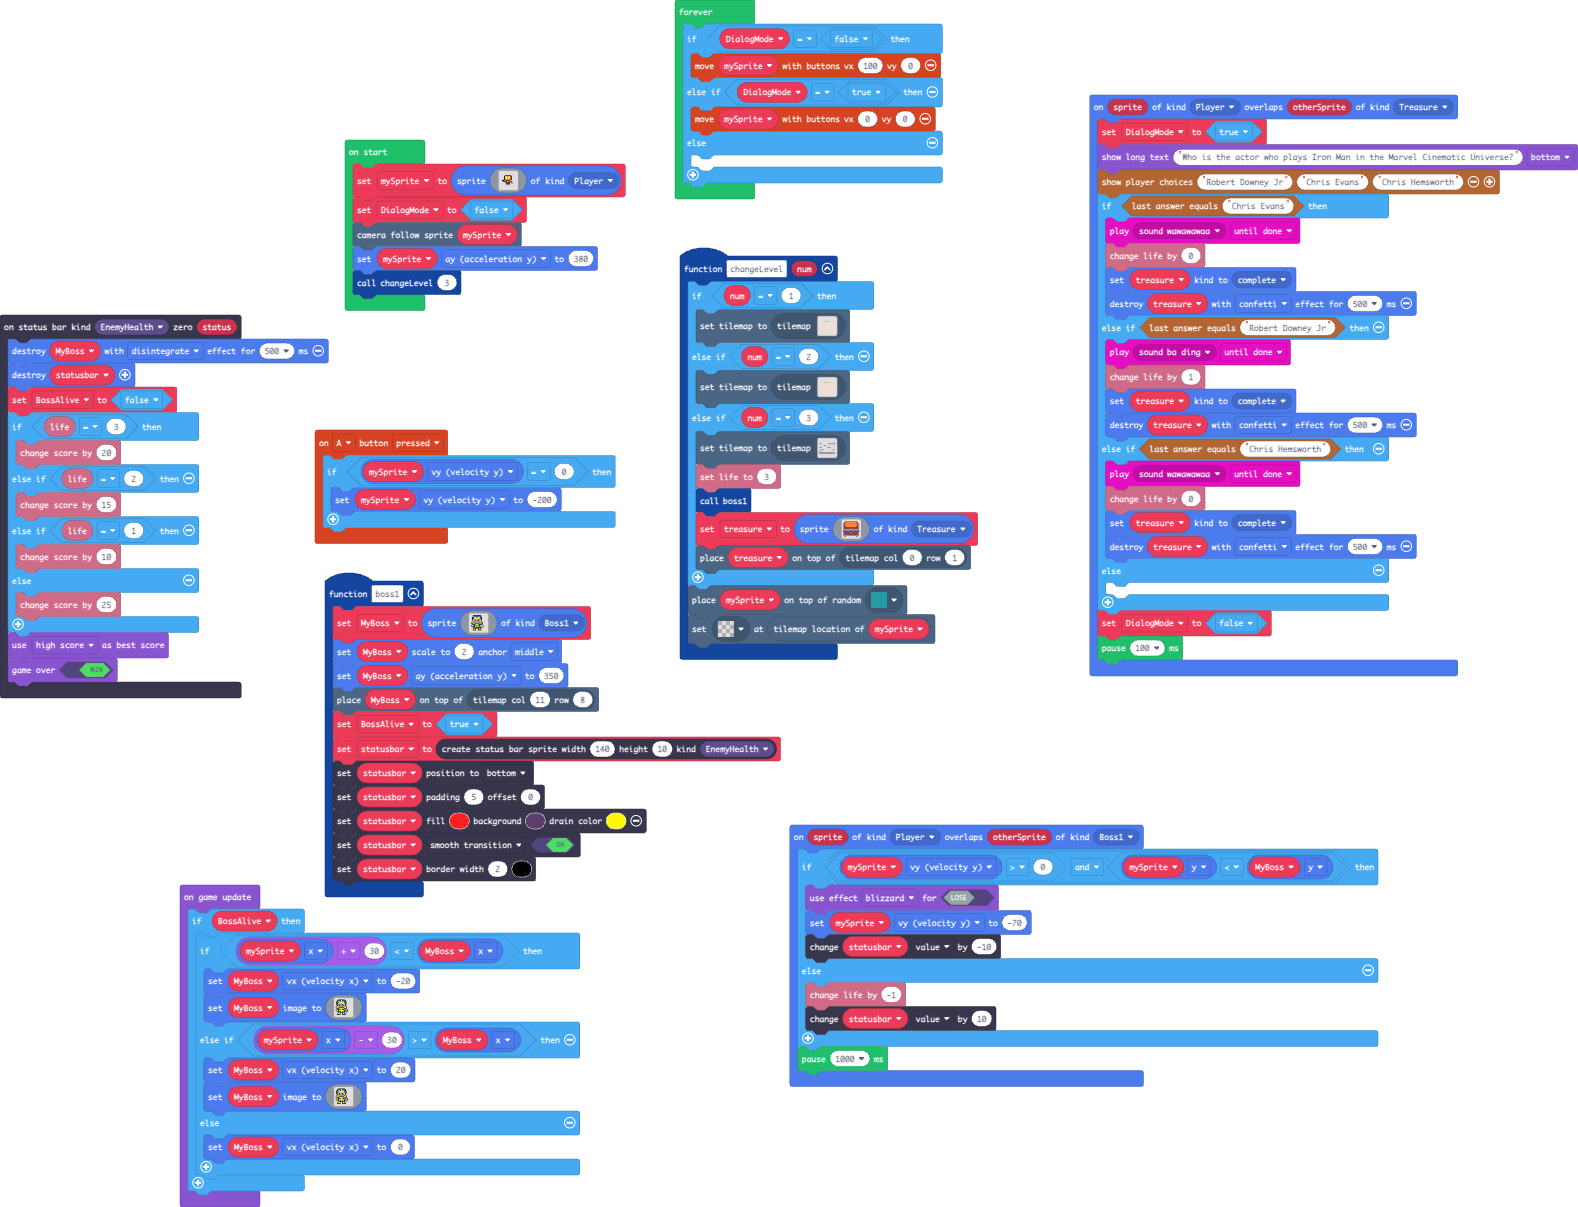
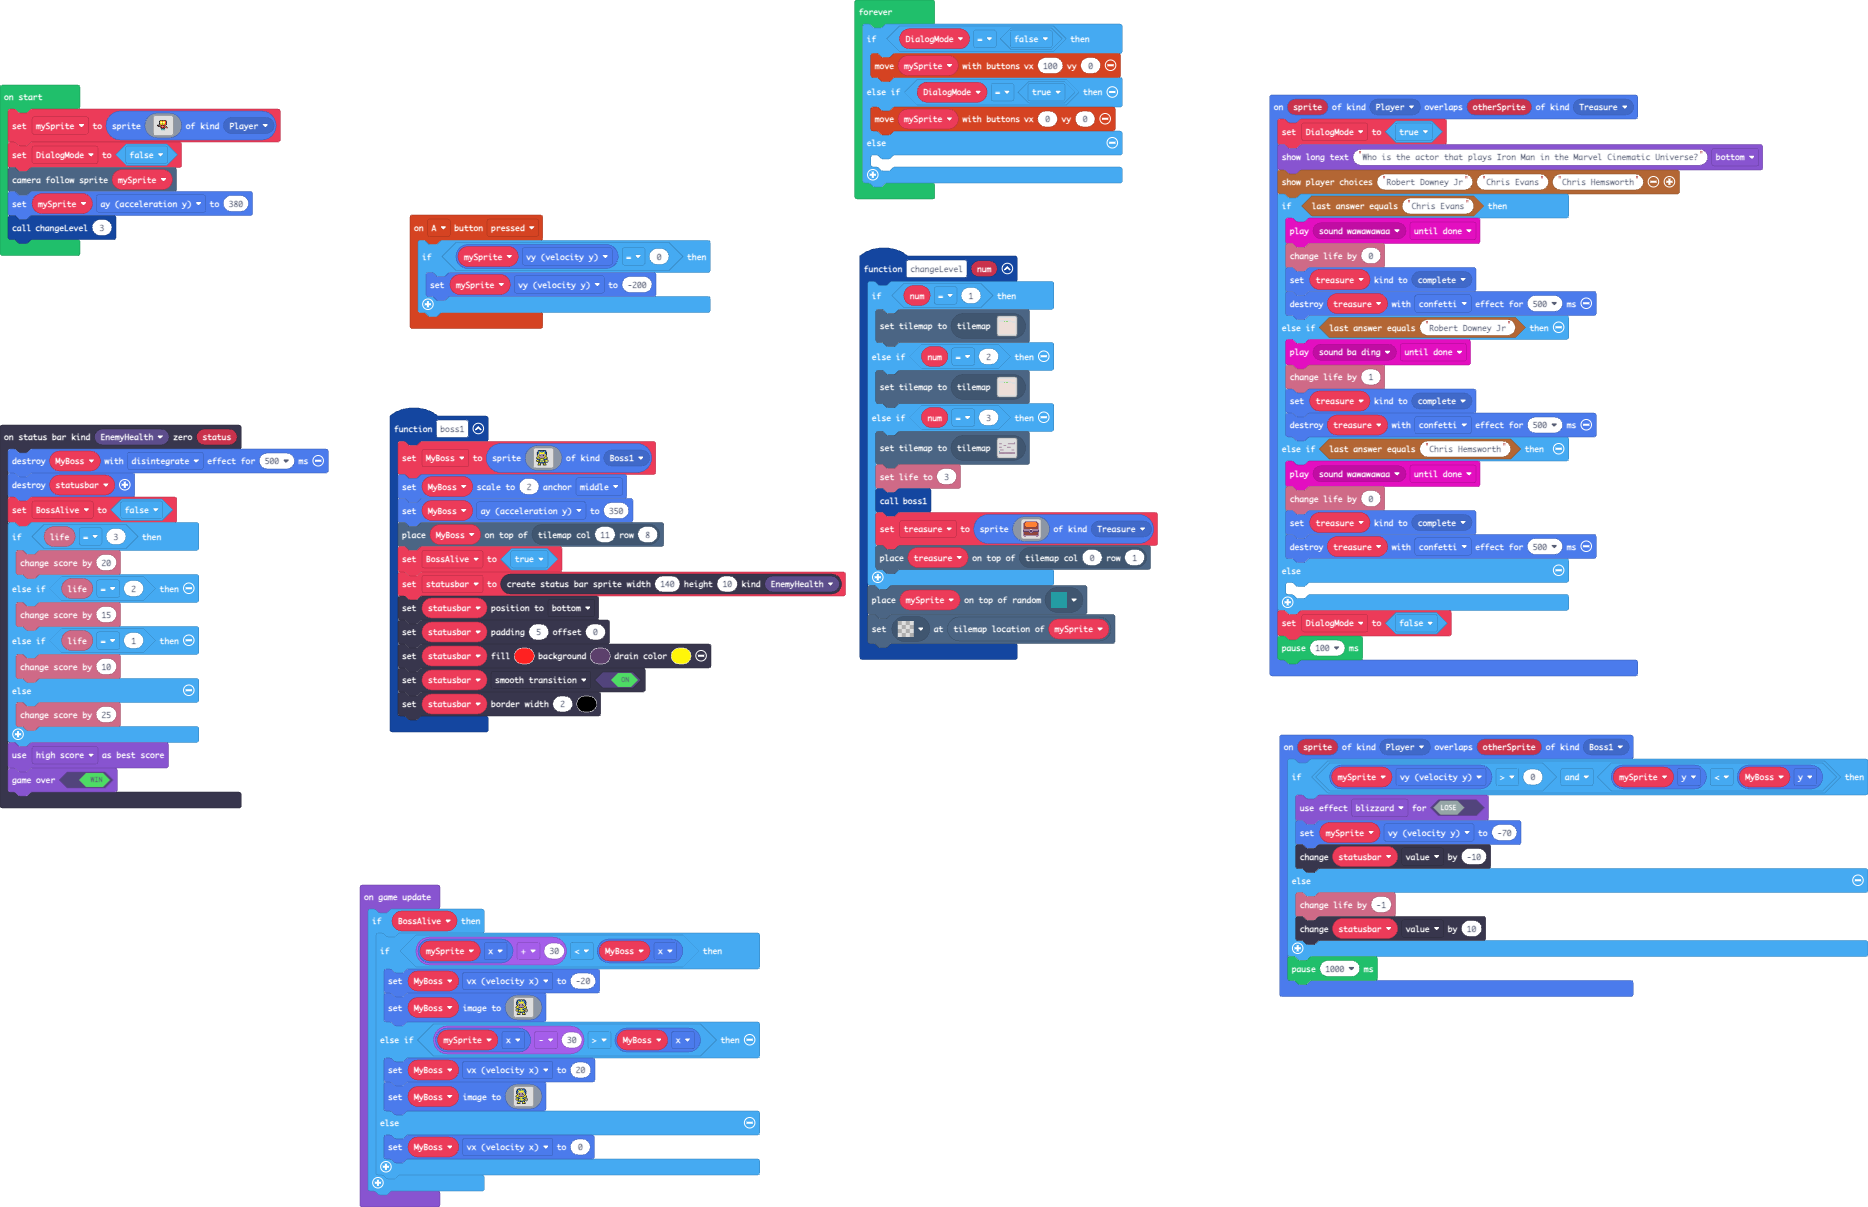
Update pxt.json, main.blocks, main.ts

diff --git a/main.ts b/main.ts
@@ -11,7 +11,7 @@ controller.A.onEvent(ControllerButtonEvent.Pressed, function () {
 })
 sprites.onOverlap(SpriteKind.Player, SpriteKind.Treasure, function (sprite, otherSprite) {
     DialogMode = true
-    game.showLongText("Who is the actor who plays Iron Man in the Marvel Cinematic Universe?", DialogLayout.Bottom)
+    game.showLongText("Who is the actor that plays Iron Man in the Marvel Cinematic Universe?", DialogLayout.Bottom)
     story.showPlayerChoices("Robert Downey Jr", "Chris Evans", "Chris Hemsworth")
     if (story.checkLastAnswer("Chris Evans")) {
         music.play(music.melodyPlayable(music.wawawawaa), music.PlaybackMode.UntilDone)
